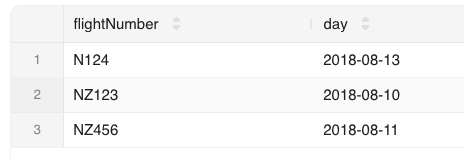
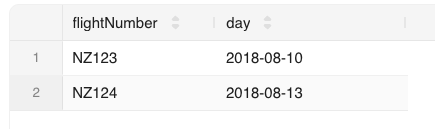
Updated class 4 and fixed airline creation SQL

diff --git a/dev/class-04/mbua512-04.md b/dev/class-04/mbua512-04.md
@@ -18,6 +18,7 @@ MBUA 512
 _SQL = Structured Query Language, "es-queue-el" or "sequel". With Michael Winikoff._
 
 - SELECT calculations, ORDER BY (DESC), LIMIT n, named columns
+- FROM - named tables 
 - WHERE conditions - including EXISTS, INTERSECT/UNION
 - GROUP BY, HAVING, and aggregates (min, max, avg, count, sum)
 
@@ -51,21 +52,6 @@ Use [this file](https://bogdanstate.github.io/mbua512/dev/class-04/person.sql) t
 
 ---
 
-## SELECT named columns 
-
-Can use `AS name` to give a column a name
-
-```sql
-SELECT firstName FROM people
-SELECT firstName AS Name FROM people
-```
-
-> Use quotes if the name has spaces, e.g. `AS 'Birthday person' `
-
-**Query to write:** Find people whose birthday is today so we can email them (combine first and last names)
-
----
-
 
 ## SELECT calculations, ORDER BY, LIMIT
 
@@ -78,10 +64,31 @@ Some useful constructs:
 - `floor` rounds a number down
 - `EXTRACT(MONTH from d)` gets the month part of a date (used later).
 
-**Query to write:** Find people with a special birthday (e.g. 100) coming up (hint: need to calculate age, use FLOOR), order by closest birthday
-
+**Query to write:** Find people whose birthday is today so we can email them (combine first and last names, show their age, order by age)
 
 ---
+
+## SELECT named columns 
+
+Can use `AS name` to give a column a name
+
+```sql
+SELECT firstName FROM people
+SELECT firstName AS Name FROM people
+```
+
+> Use quotes if the name has spaces, e.g. `AS 'Birthday person' `
+
+---
+
+## FROM - named tables 
+
+Can use `tablename alias` to refer to the table using `alias` (e.g. `person p1`)
+
+This is useful for EXISTS (coming up)
+
+---
+
 ## WHERE conditions  
 
 All sorts of things you can test as conditions in the WHERE part.
@@ -99,7 +106,7 @@ All sorts of things you can test as conditions in the WHERE part.
 ## Queries to write 
 
 - Find people with a birthday in August, September or October so we can email their planner (hint: use IN, can also use BETWEEN)
-- Find people with missing or invalid email addresses (hint: use IS NULL AND ... NOT LIKE)
+- Find people with missing or invalid email addresses (hint: use IS NULL OR ... NOT LIKE)
 
 ---
 
@@ -108,6 +115,7 @@ All sorts of things you can test as conditions in the WHERE part.
 - A WHERE condition is applied to each row on its own. But sometimes we need to check _other_ rows when deciding whether to include a given row
 - An EXISTS condition allows us to check a condition for a given row against more than just that row.
 
+> EXISTS is somewhat tricky to use ... 
 
 ---
 
@@ -138,7 +146,9 @@ All sorts of things you can test as conditions in the WHERE part.
   - WARNING: including a non-aggregate in the output other than what's used for grouping gives an arbitrary element
 - ***HAVING*** filters out certain _groups_ (WHERE filters out _rows_)
 
-**Query to write:** How many people have a birthday in each month? (hint: use GROUP BY and EXTRACT(MONTH from ...))
+**Query to write:** How many people have a birthday in each month? (hint: use GROUP BY and EXTRACT(MONTH from ...)). 
+
+Variant: how many _adults_ have a birthday in each month?
 
 --- 
 
@@ -162,7 +172,7 @@ All sorts of things you can test as conditions in the WHERE part.
 - NULL is not the same as the empty string 
 - Too many rows in result? Check JOIN conditions 
 - No rows in result? Check conditions, and perhaps remove some
-- Using EXISTS – make sure there is also an “AS …” (so can refer to parent query in sub-query)
+- Using EXISTS –  refer to parent query in sub-query
 
 --- 
 
@@ -208,6 +218,6 @@ Write queries to answer the following questions (next slides)
 
 ## Activities — More SQL (4/4)
 
-6. Find the IDs of all pilots who fly more than one flight on a given day - try doing this first using an aggregate and GROUP BY and HAVING, and then using EXISTS. 
+6. Find the IDs of all pilots who fly more than one flight on a given day - try doing this first using an aggregate and GROUP BY and HAVING, and then using EXISTS.  (hint: there is only one pilot who does this)
 
 
